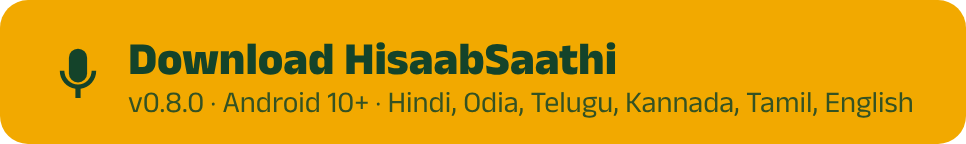
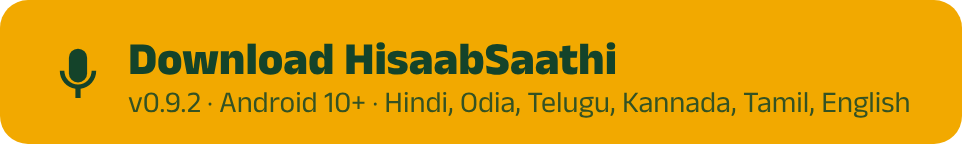
README: download button for 0.9.2

diff --git a/README.md b/README.md
@@ -3,7 +3,7 @@
 </p>
 
 <p align="center">
-  <a href="https://huggingface.co/AcxelinLabs/hisaabsaathi-model/resolve/main/HisaabSaathi.apk"><img src="docs/brand/download-app.png" alt="Download HisaabSaathi: v0.8.0, Android 10+" height="72"></a>
+  <a href="https://huggingface.co/AcxelinLabs/hisaabsaathi-model/resolve/main/HisaabSaathi.apk"><img src="docs/brand/download-app.png" alt="Download HisaabSaathi: v0.9.2, Android 10+" height="72"></a>
 </p>
 
 <p align="center">
